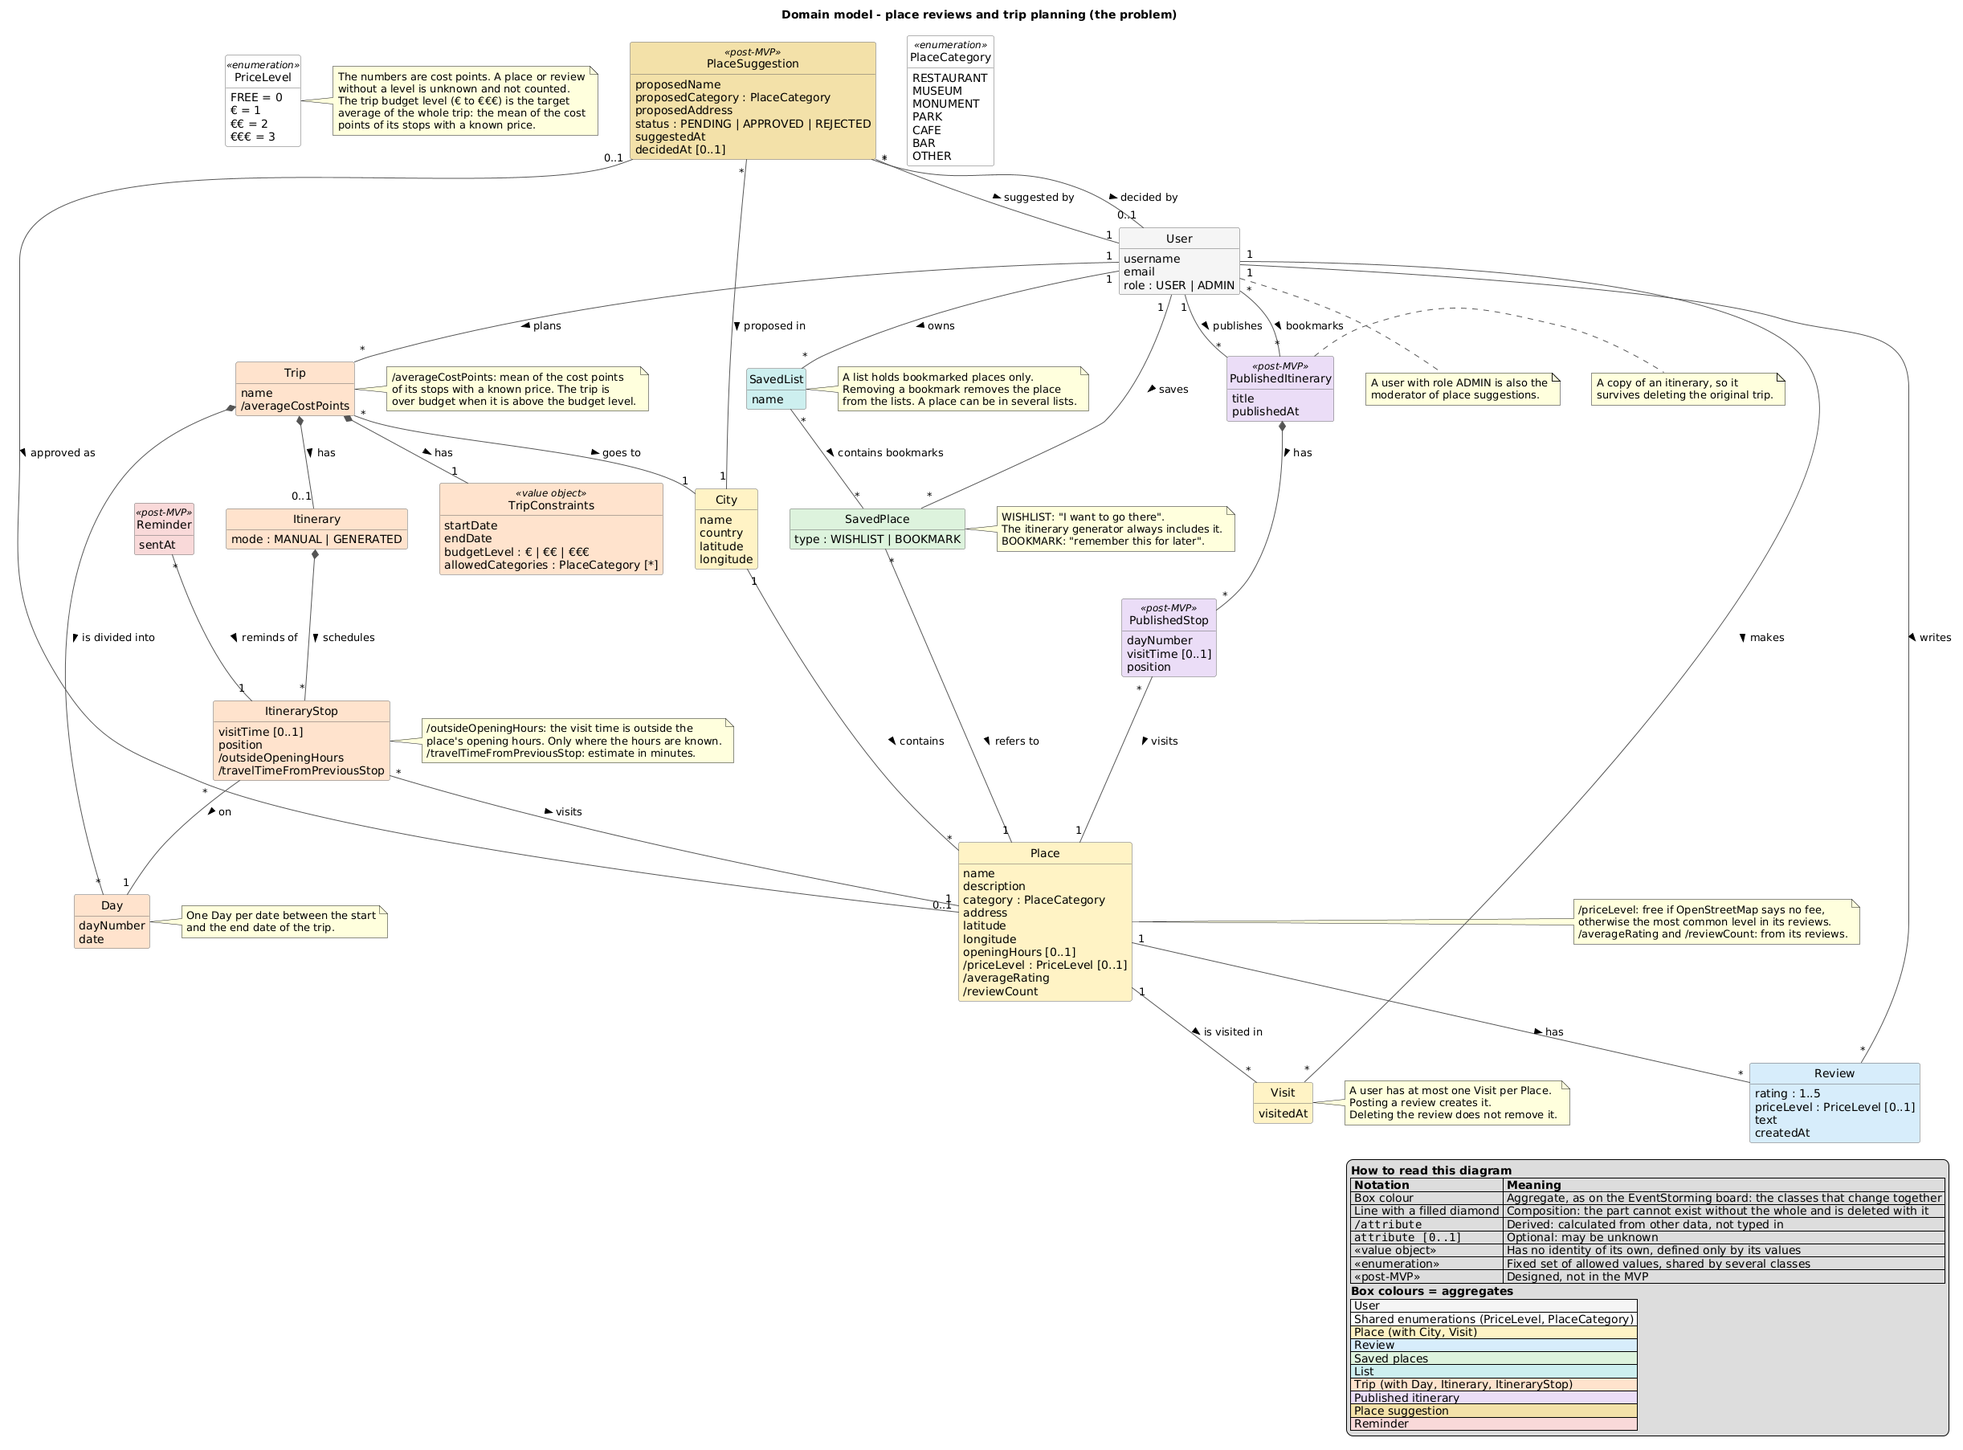
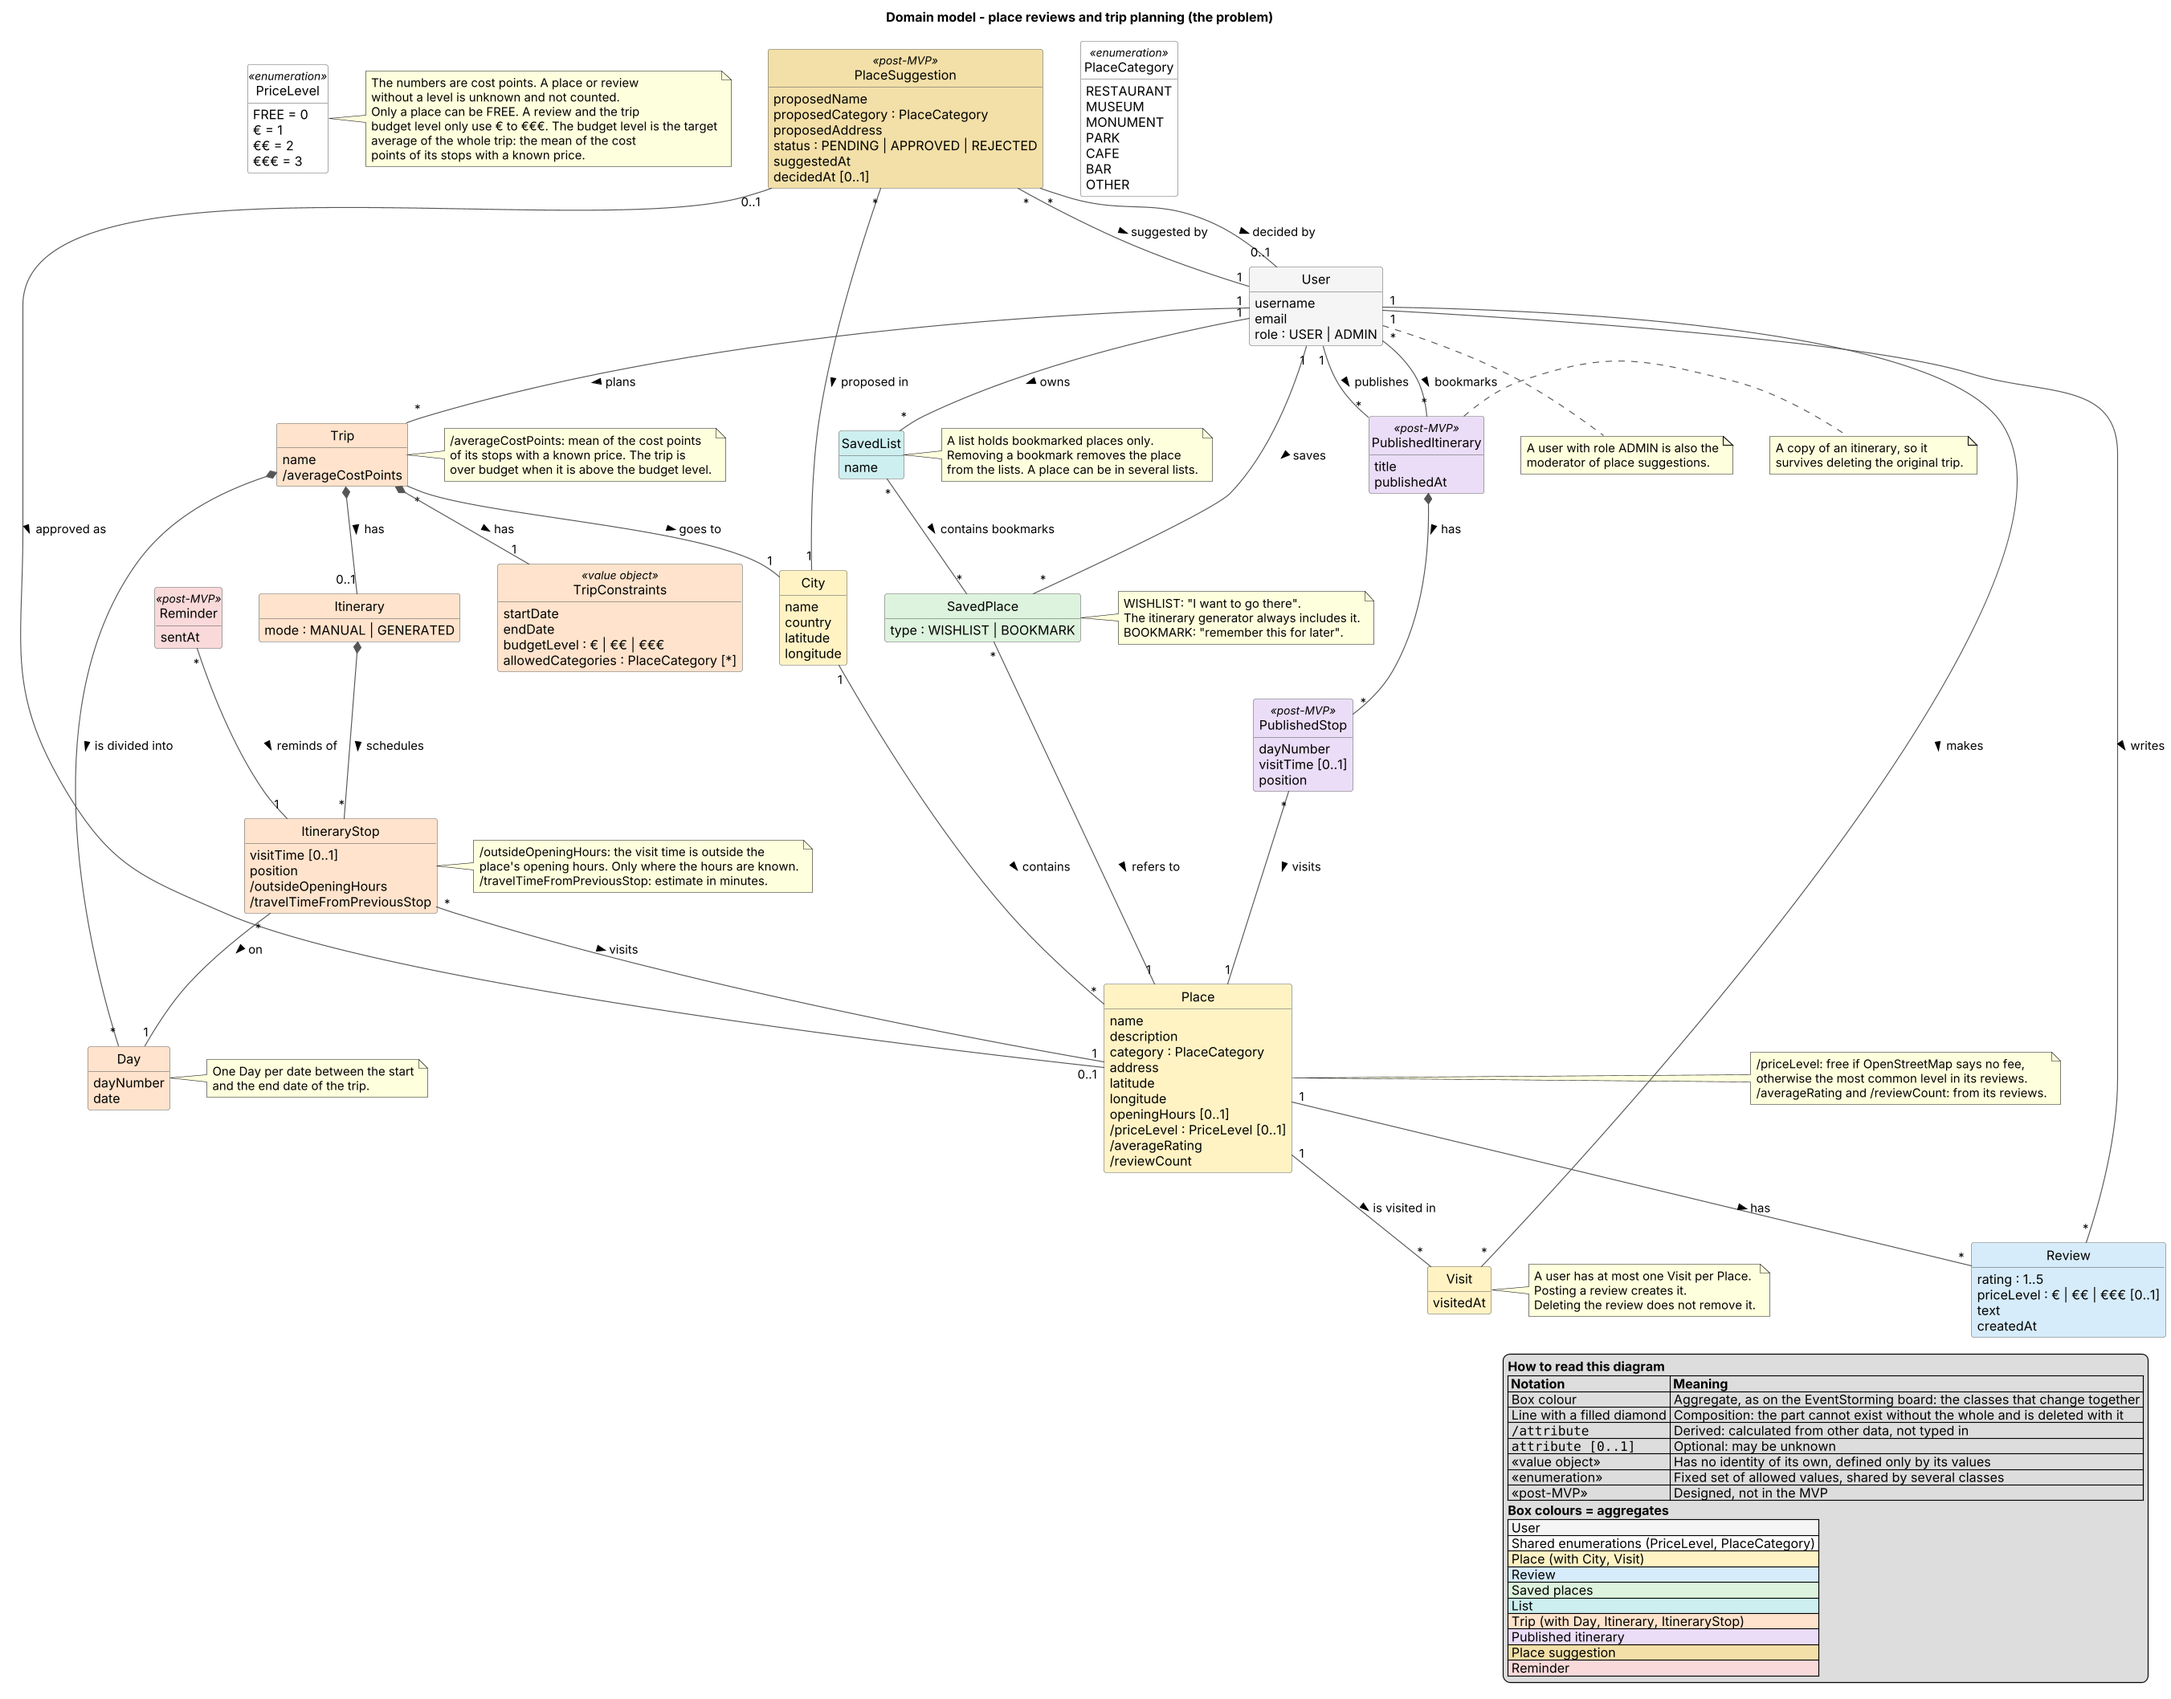
fixes

diff --git a/docs/design.md b/docs/design.md
@@ -151,7 +151,7 @@ Terms are defined in the [glossary](GLOSSARY.md).
 | Place                          | Place               | name, description, category, address, latitude, longitude, openingHours (optional), /priceLevel, /averageRating, /reviewCount | belongs to a City, has Reviews and Visits                       |
 | Visit                          | Place               | visitedAt                                                                                    | links a User to a Place (at most one per pair); created when the user posts a review      |
 | PlaceSuggestion (post-MVP)     | Place suggestion    | proposedName, proposedCategory, proposedAddress, status, suggestedAt, decidedAt (optional)   | suggested by a User, decided by a moderator (ADMIN), proposed in a City, approved as a Place |
-| Review                         | Review              | rating (1..5), priceLevel (optional), text, createdAt                                        | written by a User about a Place                                                           |
+| Review                         | Review              | rating (1..5), priceLevel (optional: €, €€ or €€€), text, createdAt                                        | written by a User about a Place                                                           |
 | SavedPlace                     | Saved places        | type (WISHLIST / BOOKMARK)                                                                   | a User saves a Place                                                                      |
 | SavedList                      | List                | name                                                                                         | owned by a User, contains bookmarked SavedPlaces                                          |
 | Trip                           | Trip                | name, /averageCostPoints                                                                     | owned by a User, goes to a City, has TripConstraints, Days and an Itinerary               |
@@ -162,7 +162,7 @@ Terms are defined in the [glossary](GLOSSARY.md).
 | Reminder (post-MVP)            | Reminder            | sentAt                                                                                       | reminds of an ItineraryStop; created when the visit time is near                          |
 | PublishedItinerary (post-MVP)  | Published itinerary | title, publishedAt                                                                           | published by a User, bookmarked by Users, has PublishedStops (a copy of an itinerary)     |
 | PublishedStop (post-MVP)       | Published itinerary | dayNumber, visitTime (optional), position                                                    | visits a Place                                                                            |
-| PriceLevel (enumeration)       | shared              | FREE = 0, € = 1, €€ = 2, €€€ = 3 (cost points)                                               | used by Place, Review and TripConstraints; unknown is not counted                         |
+| PriceLevel (enumeration)       | shared              | FREE = 0, € = 1, €€ = 2, €€€ = 3 (cost points)                                               | used by Place (all four values) and Review (€ to €€€ only); the trip budget level also uses € to €€€; unknown is not counted                         |
 | PlaceCategory (enumeration)    | shared              | RESTAURANT, MUSEUM, MONUMENT, PARK, CAFE, BAR, OTHER                                         | used by Place, PlaceSuggestion and TripConstraints                                        |
 
 Design notes:
@@ -304,7 +304,7 @@ truth. Domain policies are on the EventStorming board and in section 1.
 
 ### ADR-004: Search outside the catalog with Nominatim
 
-- **Status:** Accepted. Built in the tracer bullet (`/api/osm/search` and the search box on the map), outside the committed MVP scope (see [mvp.md](mvp.md)). The search box must run on submit only: until the code is changed it still searches while the user types, which the Nominatim policy forbids.
+- **Status:** Accepted. Built in the tracer bullet (`/api/osm/search` and the search box on the map), outside the committed MVP scope (see [mvp.md](mvp.md)). Two points of the decision are not fully in the code yet: the search box must run on submit only (fixed in the branch `fix/search-submit-and-schema-cleanup`, not merged yet), and the limit of 1 request per second for the whole app is not enforced (there is no throttle in `/api/osm/search`). Both must be done before real users, because the Nominatim policy forbids autocomplete and can block an application that exceeds the rate limit.
 - **Context:** Text search over the PostgreSQL catalog cannot find a place that is not in our database. The MVP search (city, filters, sort) runs on the catalog only. The public Nominatim service has a strict usage policy: it forbids autocomplete (search as you type), allows at most 1 request per second for the whole application, asks for caching and requires a User-Agent that identifies the application.
 - **Decision:** Use the OpenStreetMap geocoding service (**Nominatim API**) through a dedicated backend endpoint (`/api/osm/search`), within the policy:
   - Search runs only when the user submits (Enter), never while typing.

diff --git a/docs/deployment.md b/docs/deployment.md
@@ -36,7 +36,7 @@ Status: the dev path was tested on 21 Oct 2026, first with a hello-world app (bo
 
 1. Create an account at vercel.com (sign in with GitHub, Hobby plan).
 2. Create two projects without connecting a Git repository, by running `vercel link`
-   twice in the app folder (in a throwaway `node:20` container, so nothing is installed):
+   twice in the app folder (in a throwaway `node:22` container, so nothing is installed):
    `les-group7` for prod and `les-group7-dev` for dev. Both are deployed to their own
    *production* environment, which gives each a fixed public address. (The first design
    used one project and a preview address, but `vercel alias set` failed with
@@ -64,11 +64,8 @@ Never paste these values in chat or commit them.
 ## Every iteration
 
 1. Before merging `dev` into `main`, back up the prod database. Neon Free keeps only
-   6 hours of history (the project setting is at its maximum), and no snapshot exists
-   today, so a backup you made yourself is the only way back after more than 6 hours.
-   Do both:
-   - Take a snapshot in the Neon Console. The number of manual snapshots the Free plan
-     allows has not been verified.
+   6 hours of history (the project setting is at its maximum), so a backup you made
+   yourself is the only way back after more than 6 hours.
    - Save a dump outside the repository. The `pg_dump` version must be at least the
      server version (18), so use the Postgres 18 image, with the direct connection string
      in an environment variable (never typed into a command that is saved or shared):

diff --git a/docs/GLOSSARY.md b/docs/GLOSSARY.md
@@ -72,7 +72,7 @@ This glossary defines the canonical ubiquitous language for the place review and
 - **Definition:** A user-defined named collection of **bookmarked** places (e.g., "Best Bakeries in Porto", "Architecture Tour"). MVP, planned for Iteration 4.
 - **Key Attributes:** `id`, `userId`, `name`, `createdAt`.
 - **ListEntry:**
-  - Join entity linking `SavedList` to a bookmarked `SavedPlace` with `addedAt`.
+  - Join entity linking `SavedList` to a `Place` with `addedAt` (in the schema it references `Place`, not `SavedPlace`).
   - **Consistency Rule:** a list only holds bookmarked places. When a bookmark is removed, a policy removes that place from all the user's lists. One place can be in several lists. The application enforces this rule, not the database: in the schema `ListEntry` references `Place`.
 - **Commands:** _Create list_, _Change list_ (rename or delete), _Add or remove place_.
 
